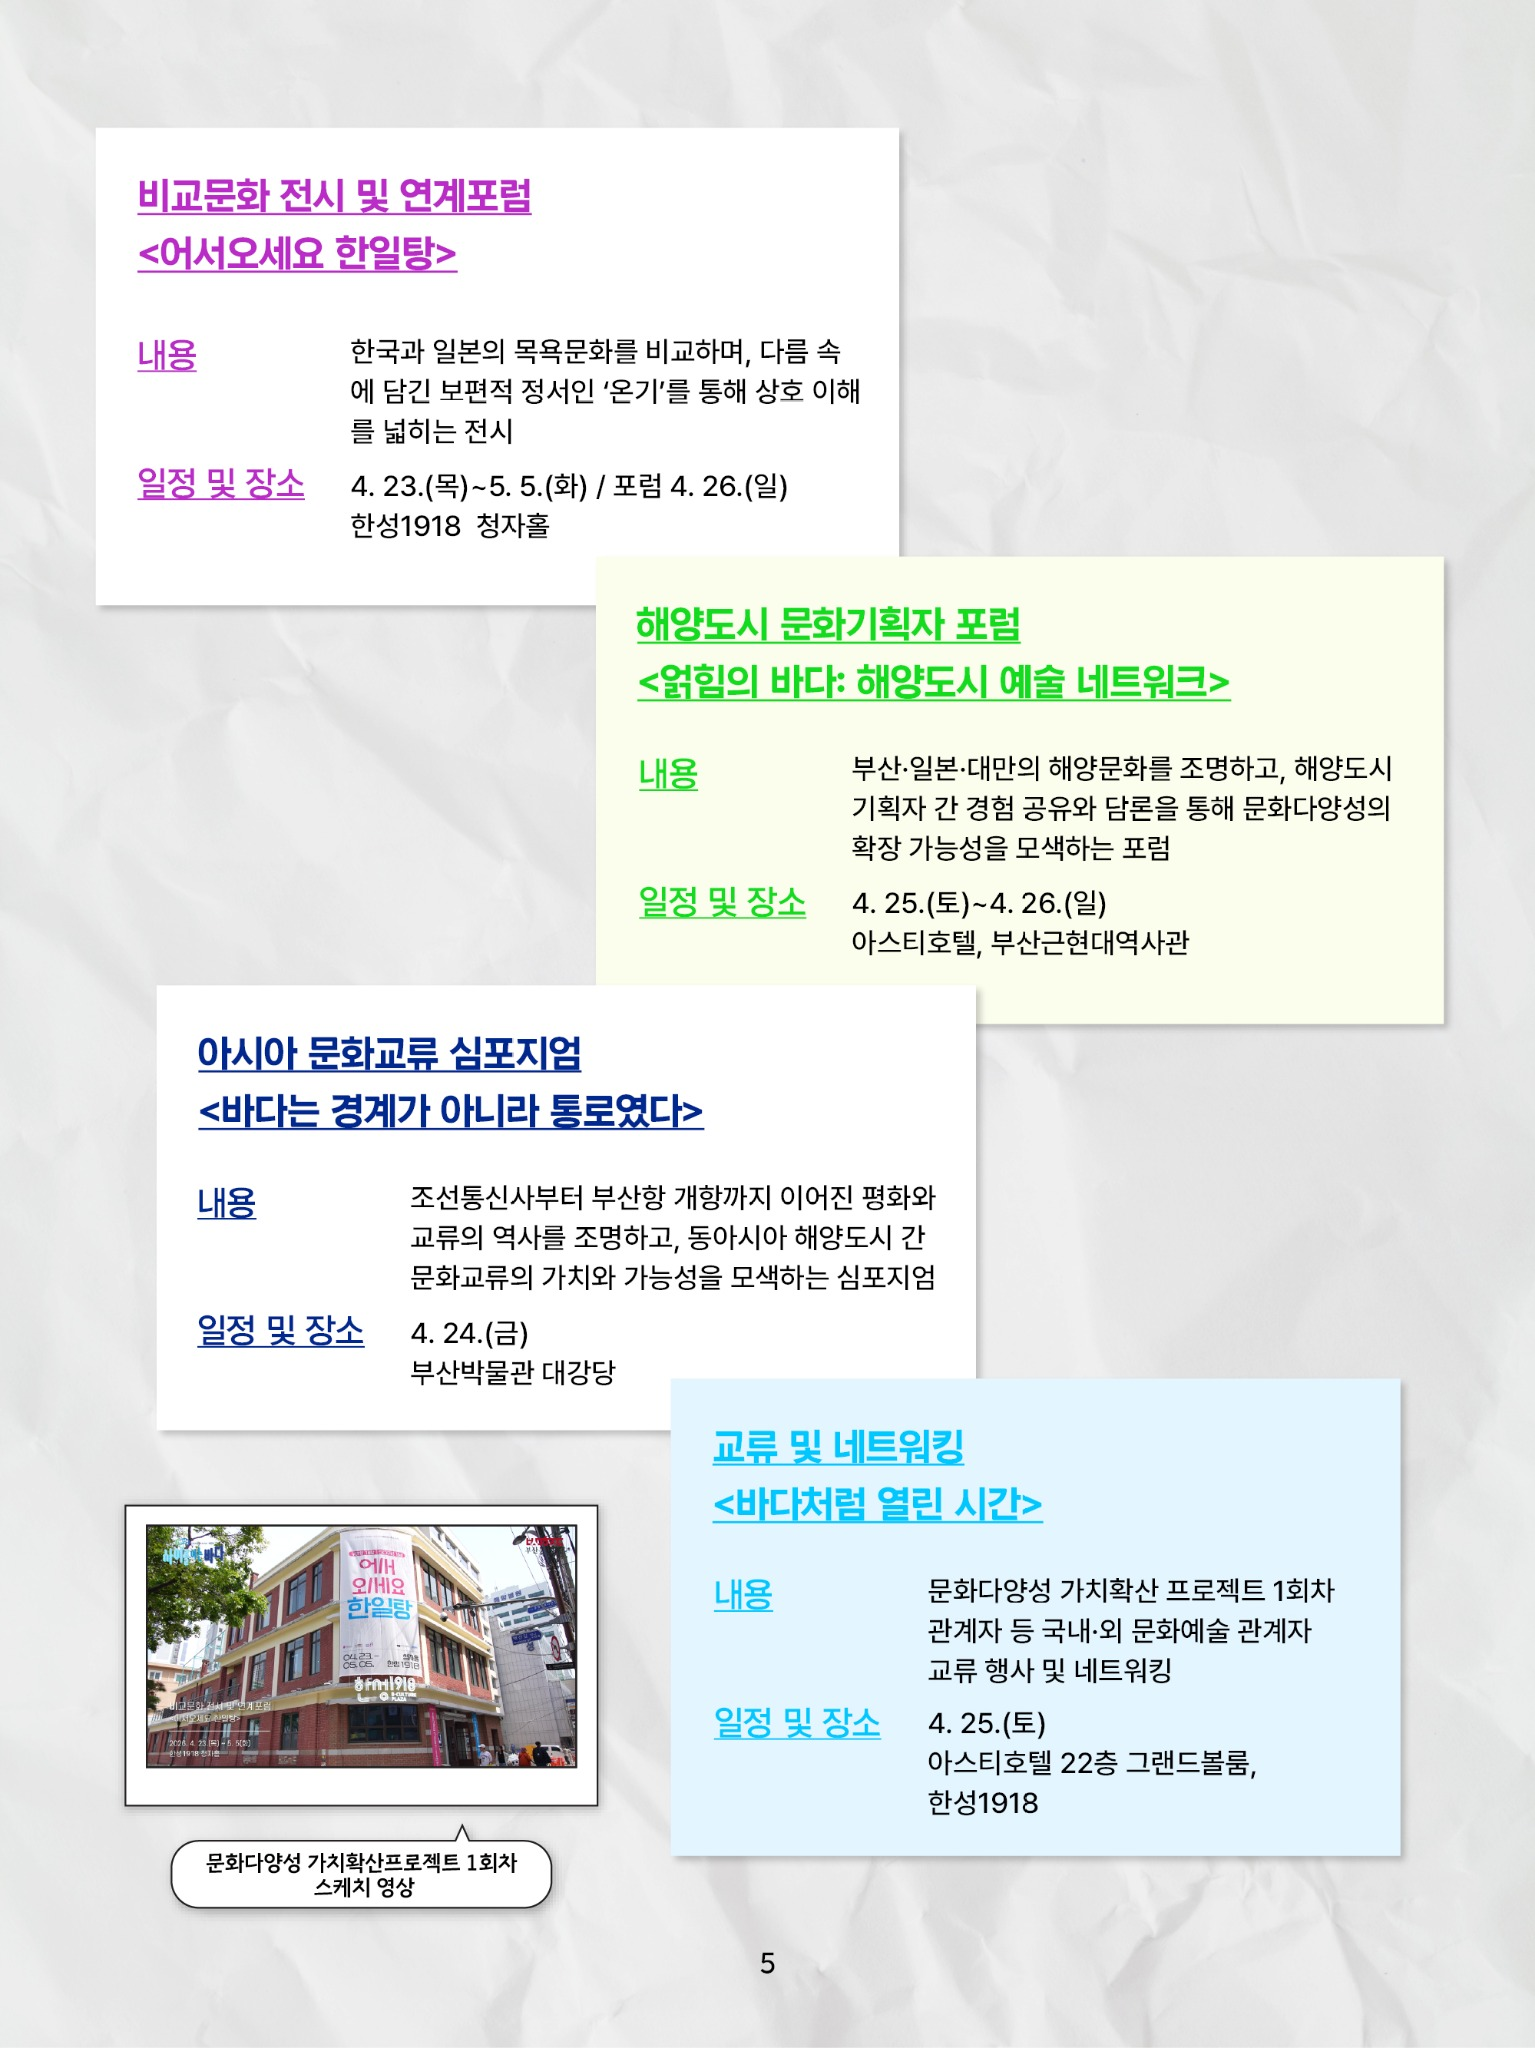
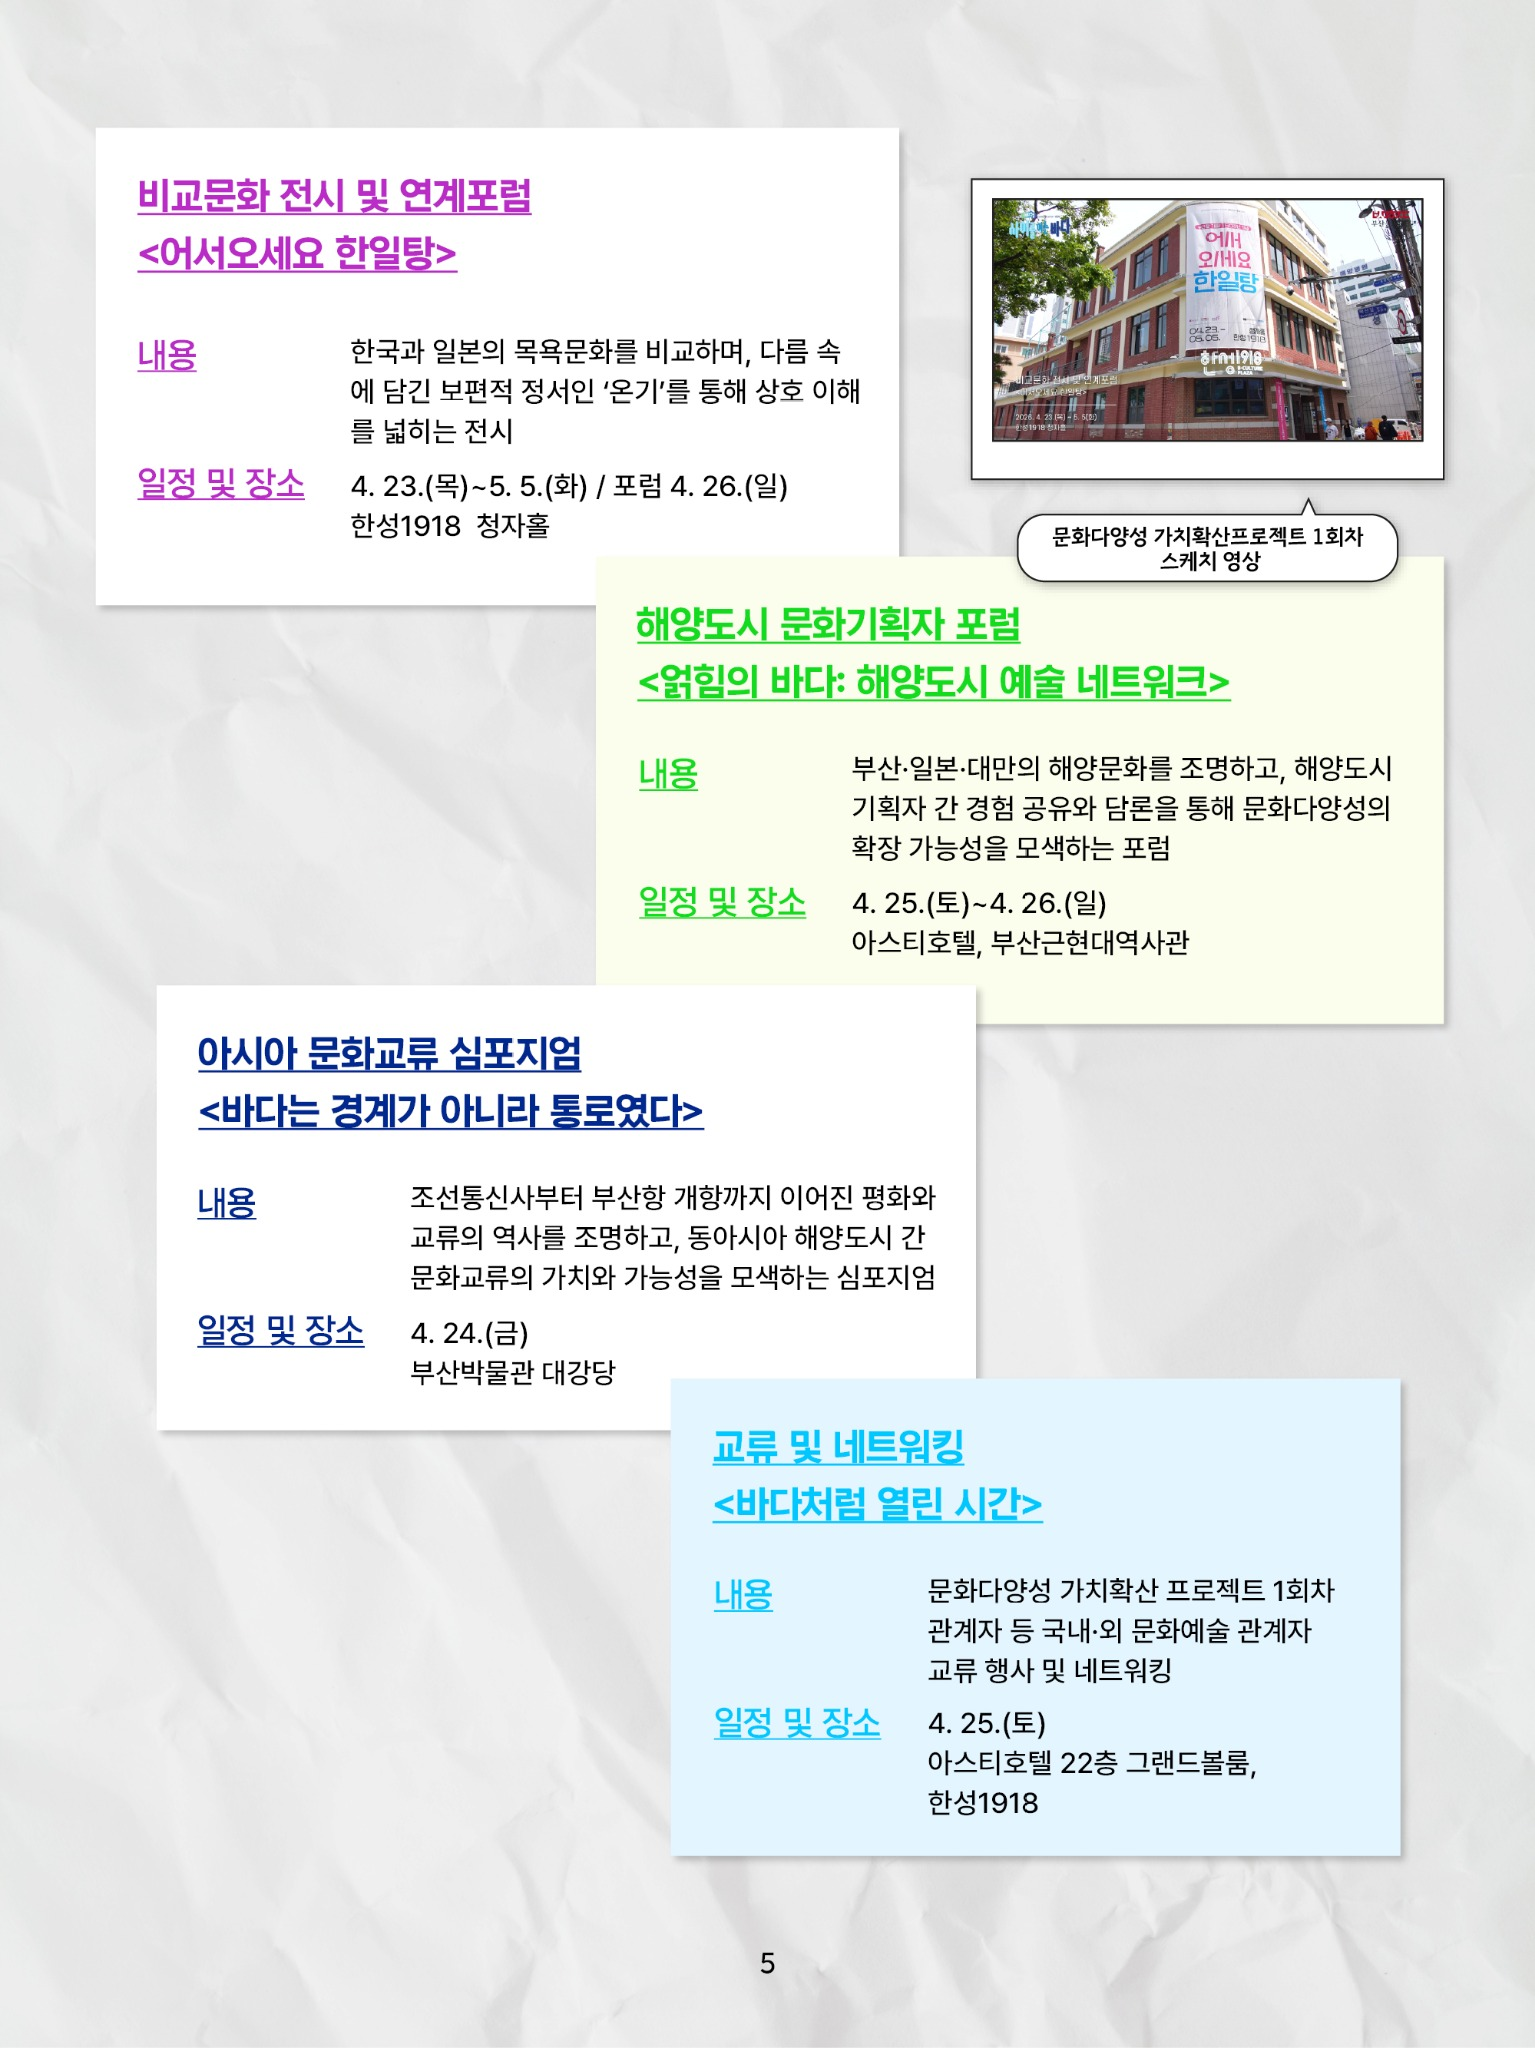
영상 재생버튼 수정

Changed region(s): [[0.6124, 0.0625, 0.9492, 0.3125], [0.0612, 0.7188, 0.398, 0.9375]]

diff --git a/index.html b/index.html
@@ -44,7 +44,7 @@
     .round-button{display:grid;place-items:center;width:46px;padding:0;border-radius:50%;color:#fff;cursor:pointer}
     .menu-icon{font-family:Arial,sans-serif;font-size:23px;line-height:1}
     .video-card{position:absolute;z-index:20;padding:0;border:0;background:transparent;cursor:pointer}
-    .video-card.sketch-card{left:9.5%;top:74.5%;width:28%;height:11.8%}
+    .video-card.sketch-card{left:64.6%;top:9.7%;width:28%;height:11.8%}
     .video-card[hidden]{display:none}
     .video-card > *{display:none!important}
     .video-card::after{content:"▶";position:absolute;top:50%;left:50%;display:grid;place-items:center;width:58px;height:58px;padding-left:4px;border:1px solid rgba(255,255,255,.55);border-radius:50%;background:rgba(23,16,24,.72);box-shadow:0 5px 18px rgba(0,0,0,.28);color:#fff;font-family:Arial,sans-serif;font-size:24px;line-height:1;transform:translate(-50%,-50%);transition:background .18s ease,transform .18s ease}
